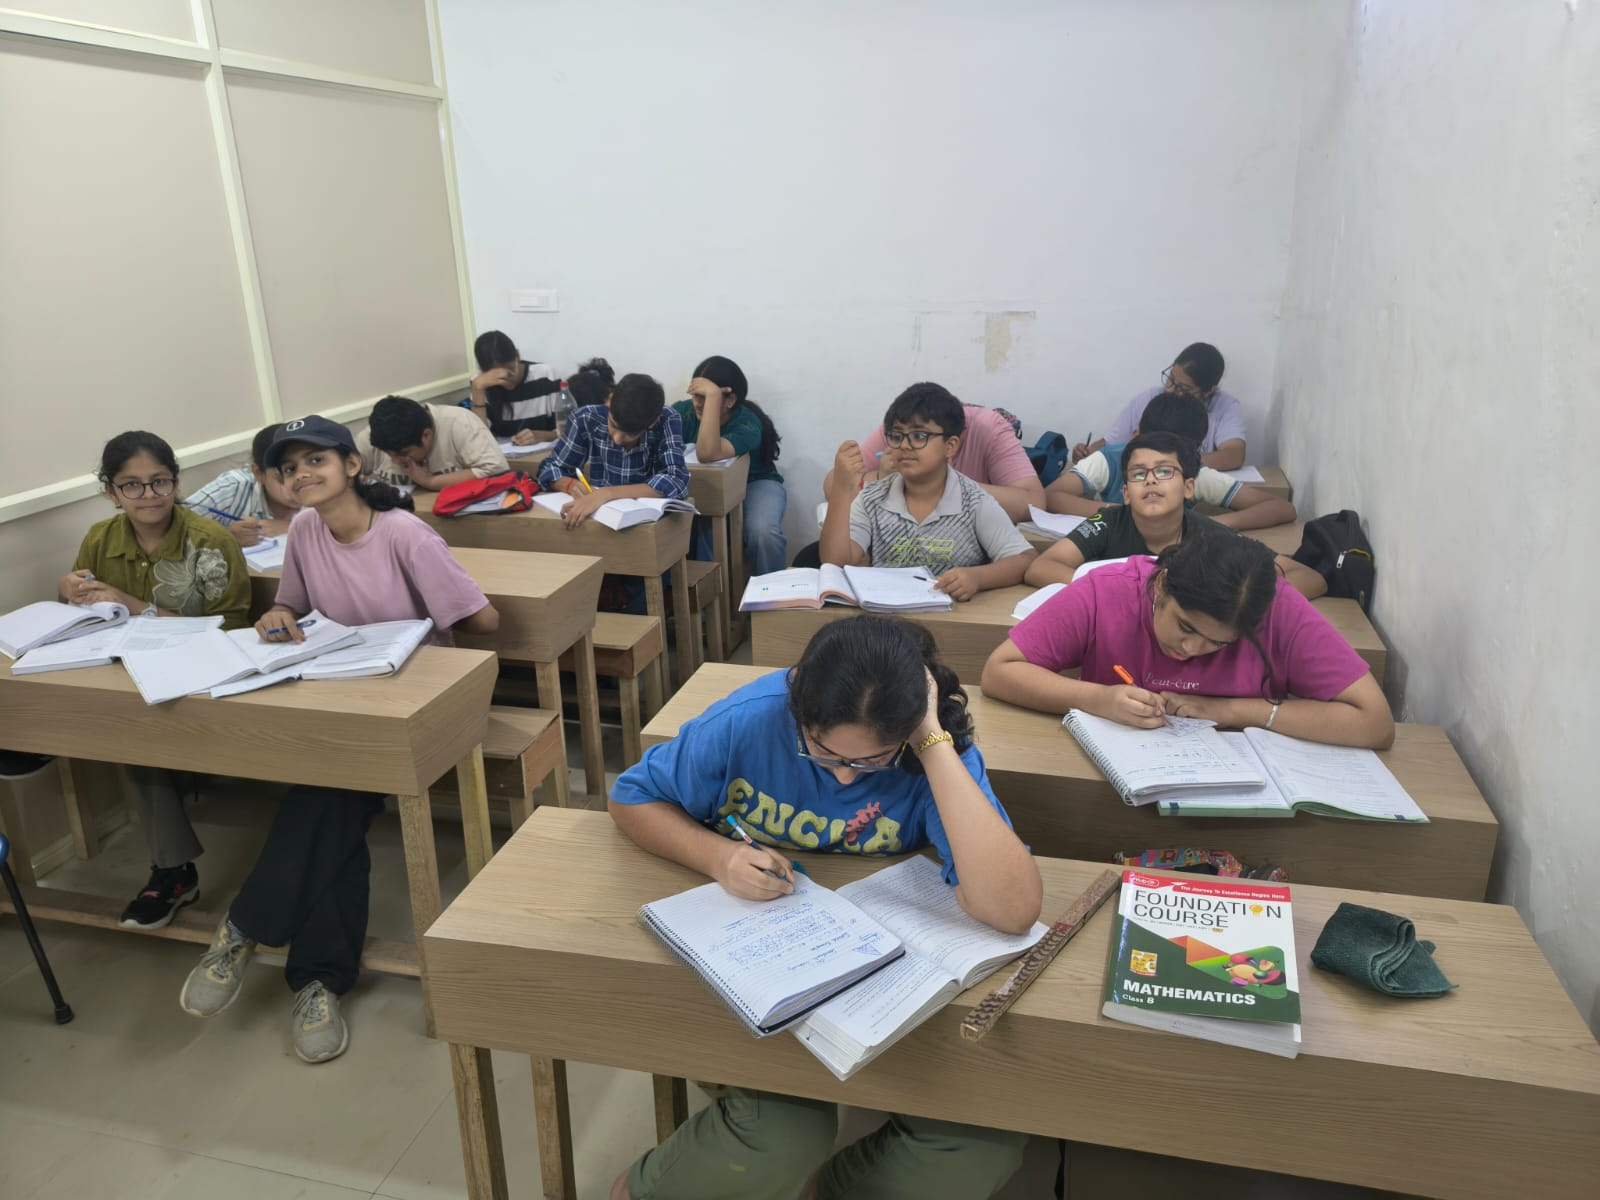
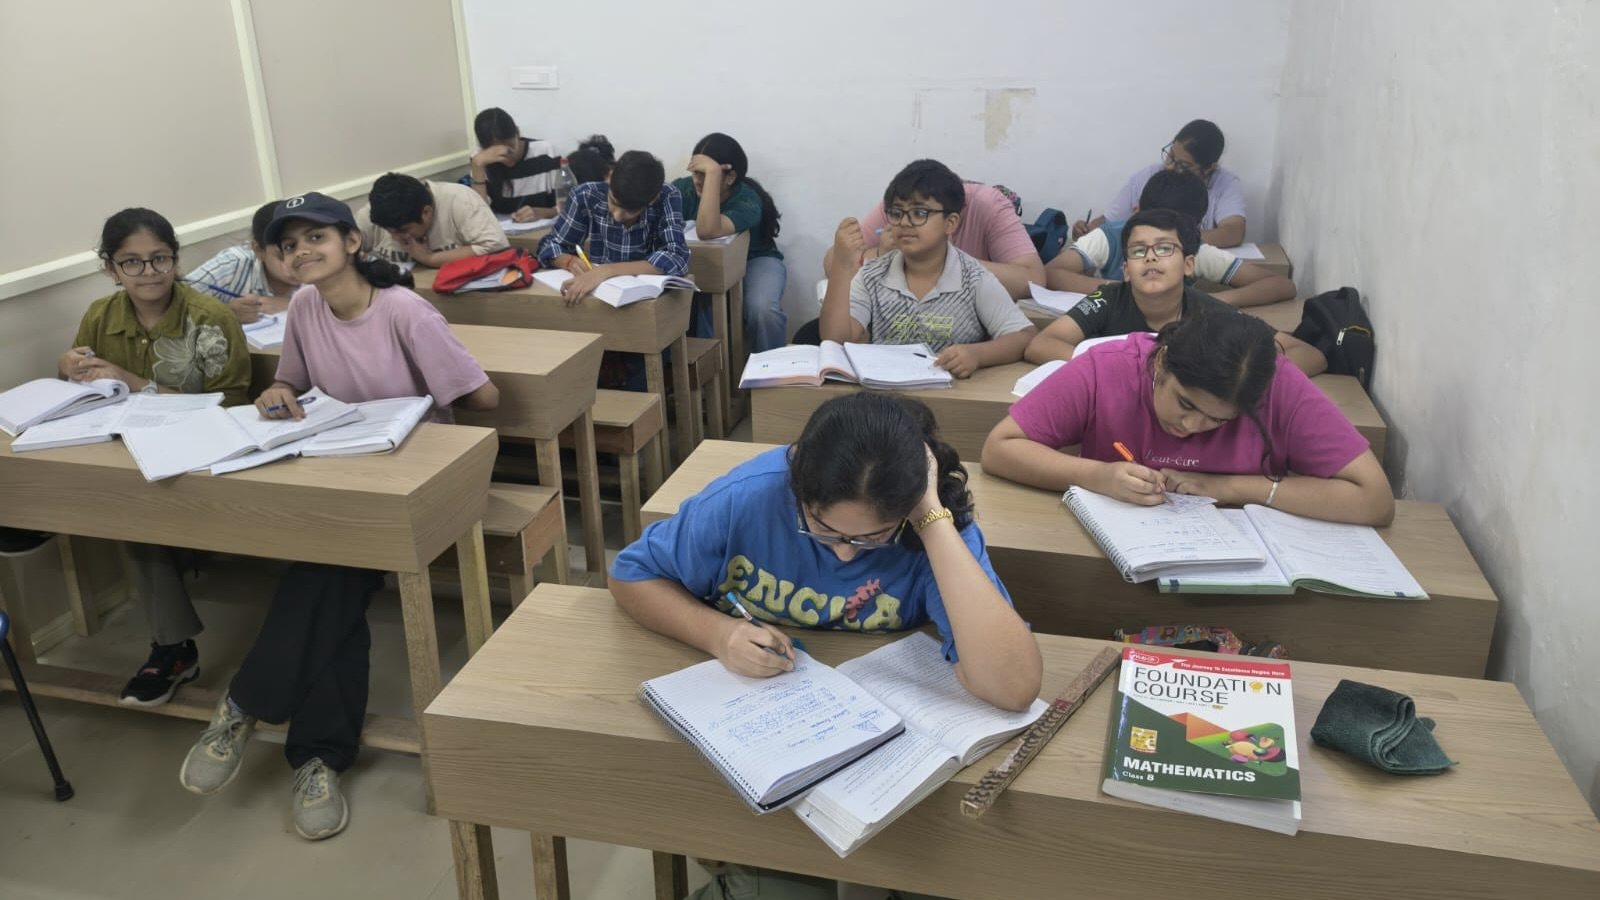
Footer courses scroll up fixed

diff --git a/src/pages/Courses.tsx b/src/pages/Courses.tsx
@@ -1,6 +1,7 @@
 import { lazy } from "react";
 import { BookOpen, GraduationCap, Calculator, Beaker, Stethoscope, Check, Sparkles } from "lucide-react";
 import { Helmet } from "react-helmet-async";
+import { Element } from "react-scroll";
 
 const Hero = lazy(()=>import("../section/Hero"));
 const FAQ = lazy(()=>import("../section/FAQ"));
@@ -11,35 +12,35 @@ const programs = [
     title: "Foundation Program (6–8)",
     desc: "Concept-first learning that lights the spark of curiosity early.",
     subjects: ["Math", "Science", "Social Science", "English"],
-    features: ["Concept building", "Olympiad preparation (NSO/IMO)", "Science & Math focus", "Activity-based learning"],
+    features: ["Concept building", "Olympiad preparation (NSO/IMO)", "Science & Math focus", "Activity-based learning"]
   },
   {
     icon: GraduationCap, color: "from-indigo-500 to-purple-600", tag: "Boards",
     title: "Board Preparation (9–10)",
     desc: "Master CBSE with NTSE foundation and exam strategy.",
     subjects: ["Math", "Science", "Social Science", "English"],
-    features: ["CBSE preparation", "NTSE foundation", "Regular weekly tests", "Doubt clearing sessions"],
+    features: ["CBSE preparation", "NTSE foundation", "Regular weekly tests", "Doubt clearing sessions"]
   },
   {
     icon: Calculator, color: "from-red-400 to-indigo-700", tag: "Sr. Sec",
     title: "Senior Secondary (11–12)",
     desc: "Streams aligned with competitive exam aspirations.",
     subjects: ["PCM", "PCB"],
-    features: ["Stream-specialized teaching", "Board + competitive integration", "Advanced problem solving", "Career counseling"],
+    features: ["Stream-specialized teaching", "Board + competitive integration", "Advanced problem solving", "Career counseling"]
   },
   {
     icon: Beaker, color: "from-orange-500 to-rose-500", tag: "Engineering",
     title: "JEE Preparation",
     desc: "Crack JEE Main & Advanced with structured rigour.",
     subjects: ["Physics", "Chemistry", "Mathematics"],
-    features: ["JEE Main + Advanced", "Daily Practice Problems", "All-India mock test series", "Previous year analysis"],
+    features: ["JEE Main + Advanced", "Daily Practice Problems", "All-India mock test series", "Previous year analysis"]
   },
   {
     icon: Stethoscope, color: "from-emerald-500 to-teal-600", tag: "Medical",
     title: "NEET Preparation",
     desc: "Built for the medical aspirant — depth, clarity, discipline.",
     subjects: ["Physics", "Chemistry", "Biology"],
-    features: ["NCERT-focused mastery", "Biology specialization", "Bi-weekly test series", "NEET pattern revision"],
+    features: ["NCERT-focused mastery", "Biology specialization", "Bi-weekly test series", "NEET pattern revision"]
   },
 ];
 
@@ -113,7 +114,7 @@ const Courses = () => {
 
       <Hero badge="Courses" title="Coaching Courses in Gurugram for NEET, JEE & Classes 6-12" description="Explore expert coaching programs for school students and competitive exams including NEET, IIT JEE, CBSE and foundation preparation." />
 
-      <section className="flex flex-col gap-8 py-12 lg:py-24 px-4 lg:px-16">
+      <Element name='courses' className="flex flex-col gap-8 py-12 lg:py-24 px-4 lg:px-16">
         <div className="flex flex-col items-center gap-4">
           <div className="flex items-center gap-2 rounded-full bg-orange-100 px-4 py-2 text-xs font-semibold uppercase text-[#F0532B]">
             <span className="h-1.5 w-1.5 rounded-full bg-[#F0532B]" /> Programs
@@ -169,7 +170,7 @@ const Courses = () => {
             </div>
           ))}
         </div>
-      </section>
+      </Element>
 
       <FAQ faqs={faqs} />
     </>

diff --git a/src/components/Footer.tsx b/src/components/Footer.tsx
@@ -1,9 +1,34 @@
 import { MapPin, Phone, Mail } from "lucide-react";
 import { Instagram, FacebookRounded } from "@mui/icons-material"
-import { NavLink } from "react-router-dom";
+import { NavLink, useNavigate } from "react-router-dom";
 import Logo from '../assets/Logo.png';
+import { scroller } from "react-scroll";
 
 const Footer = () => {
+  const navigate = useNavigate();
+
+  const handleScroll = (route: string, section: string) => {
+    if (location.pathname !== route) {
+      navigate(route);
+
+      setTimeout(() => {
+        if (section) {
+          scroller.scrollTo(section, {
+            smooth: true,
+            duration: 600,
+          });
+        }
+      }, 200);
+    } else {
+      if (section) {
+        scroller.scrollTo(section, {
+          smooth: true,
+          duration: 600,
+        });
+      }
+    }
+  };
+
   return (
     <footer className="bg-[#032262] text-white flex flex-col">
       <div className="p-8 grid grid-cols-1 md:grid-cols-3 lg:grid-cols-5 gap-8 lg:gap-16">
@@ -48,11 +73,11 @@ const Footer = () => {
         <div className="flex flex-col gap-3">
           <h3 className="text-lg font-semibold">Programs</h3>
           <div className="flex flex-col gap-2 opacity-80">
-            <NavLink to={'/courses'} className="w-fit hover:text-[#F0532B] transition duration-300">Foundation (6–8)</NavLink>
-            <NavLink to={'/courses'} className="w-fit hover:text-[#F0532B] transition duration-300">Boards (10-12)</NavLink>
-            <NavLink to={'/courses'} className="w-fit hover:text-[#F0532B] transition duration-300">Senior Secondary (11–12)</NavLink>
-            <NavLink to={'/courses'} className="w-fit hover:text-[#F0532B] transition duration-300">JEE Main & Advanced</NavLink>
-            <NavLink to={'/courses'} className="w-fit hover:text-[#F0532B] transition duration-300">NEET Preparation</NavLink>
+            <p onClick={()=>handleScroll("/courses", "courses")} className="w-fit hover:text-[#F0532B] transition duration-300 cursor-pointer">Foundation (6–8)</p>
+            <p onClick={()=>handleScroll("/courses", "courses")} className="w-fit hover:text-[#F0532B] transition duration-300 cursor-pointer">Boards (10-12)</p>
+            <p onClick={()=>handleScroll("/courses", "courses")} className="w-fit hover:text-[#F0532B] transition duration-300 cursor-pointer">Senior Secondary (11–12)</p>
+            <p onClick={()=>handleScroll("/courses", "courses")} className="w-fit hover:text-[#F0532B] transition duration-300 cursor-pointer">JEE Main & Advanced</p>
+            <p onClick={()=>handleScroll("/courses", "courses")} className="w-fit hover:text-[#F0532B] transition duration-300 cursor-pointer">NEET Preparation</p>
           </div>
         </div>
 

diff --git a/src/pages/Gallery.tsx b/src/pages/Gallery.tsx
@@ -6,14 +6,15 @@ import { Helmet } from "react-helmet-async";
 
 const Hero = lazy(()=>import("../section/Hero"));
 
-const categories = ["All", "Classroom", "Infrastructure", "Events"];
+// const categories = ["All", "Classroom", "Infrastructure", "Events"];
+const categories = ["All", "Classroom", "Events"];
 
 const galleryItems = [
   // { src: Icons.Events2, title: "Interactive Doubt Solving Session", cat: "Classroom" },
-  { src: Icons.Events1, title: "Student Engagement Activities", cat: "Events" },
+  { src: Icons.Classroom1, title: "Focused Classroom Learning", cat: "Classroom" },
   { src: Icons.Classroom2, title: "Concept-Based Teaching in Action", cat: "Classroom" },
   { src: Icons.Classroom3, title: "Personal Attention for Every Student", cat: "Classroom" },
-  { src: Icons.Classroom1, title: "Focused Classroom Learning", cat: "Classroom" },
+  { src: Icons.Events1, title: "Student Engagement Activities", cat: "Events" },
   // { src: Icons.Events1, title: "Modern Classroom Environment", cat: "Infrastructure" },
   // { src: Icons.Events2, title: "Comfortable Learning Spaces", cat: "Infrastructure" },
   // { src: Icons.Events1, title: "Well-Equipped Study Rooms", cat: "Infrastructure" },

diff --git a/src/assets/gallery/index.ts b/src/assets/gallery/index.ts
@@ -1,4 +1,3 @@
-export { default as Events2 } from "./Event2.jpg";
 export { default as Classroom1 } from "./Classroom1.jpeg";
 export { default as Classroom2 } from "./Classroom2.jpeg";
 export { default as Classroom3 } from "./Classroom3.jpeg";
